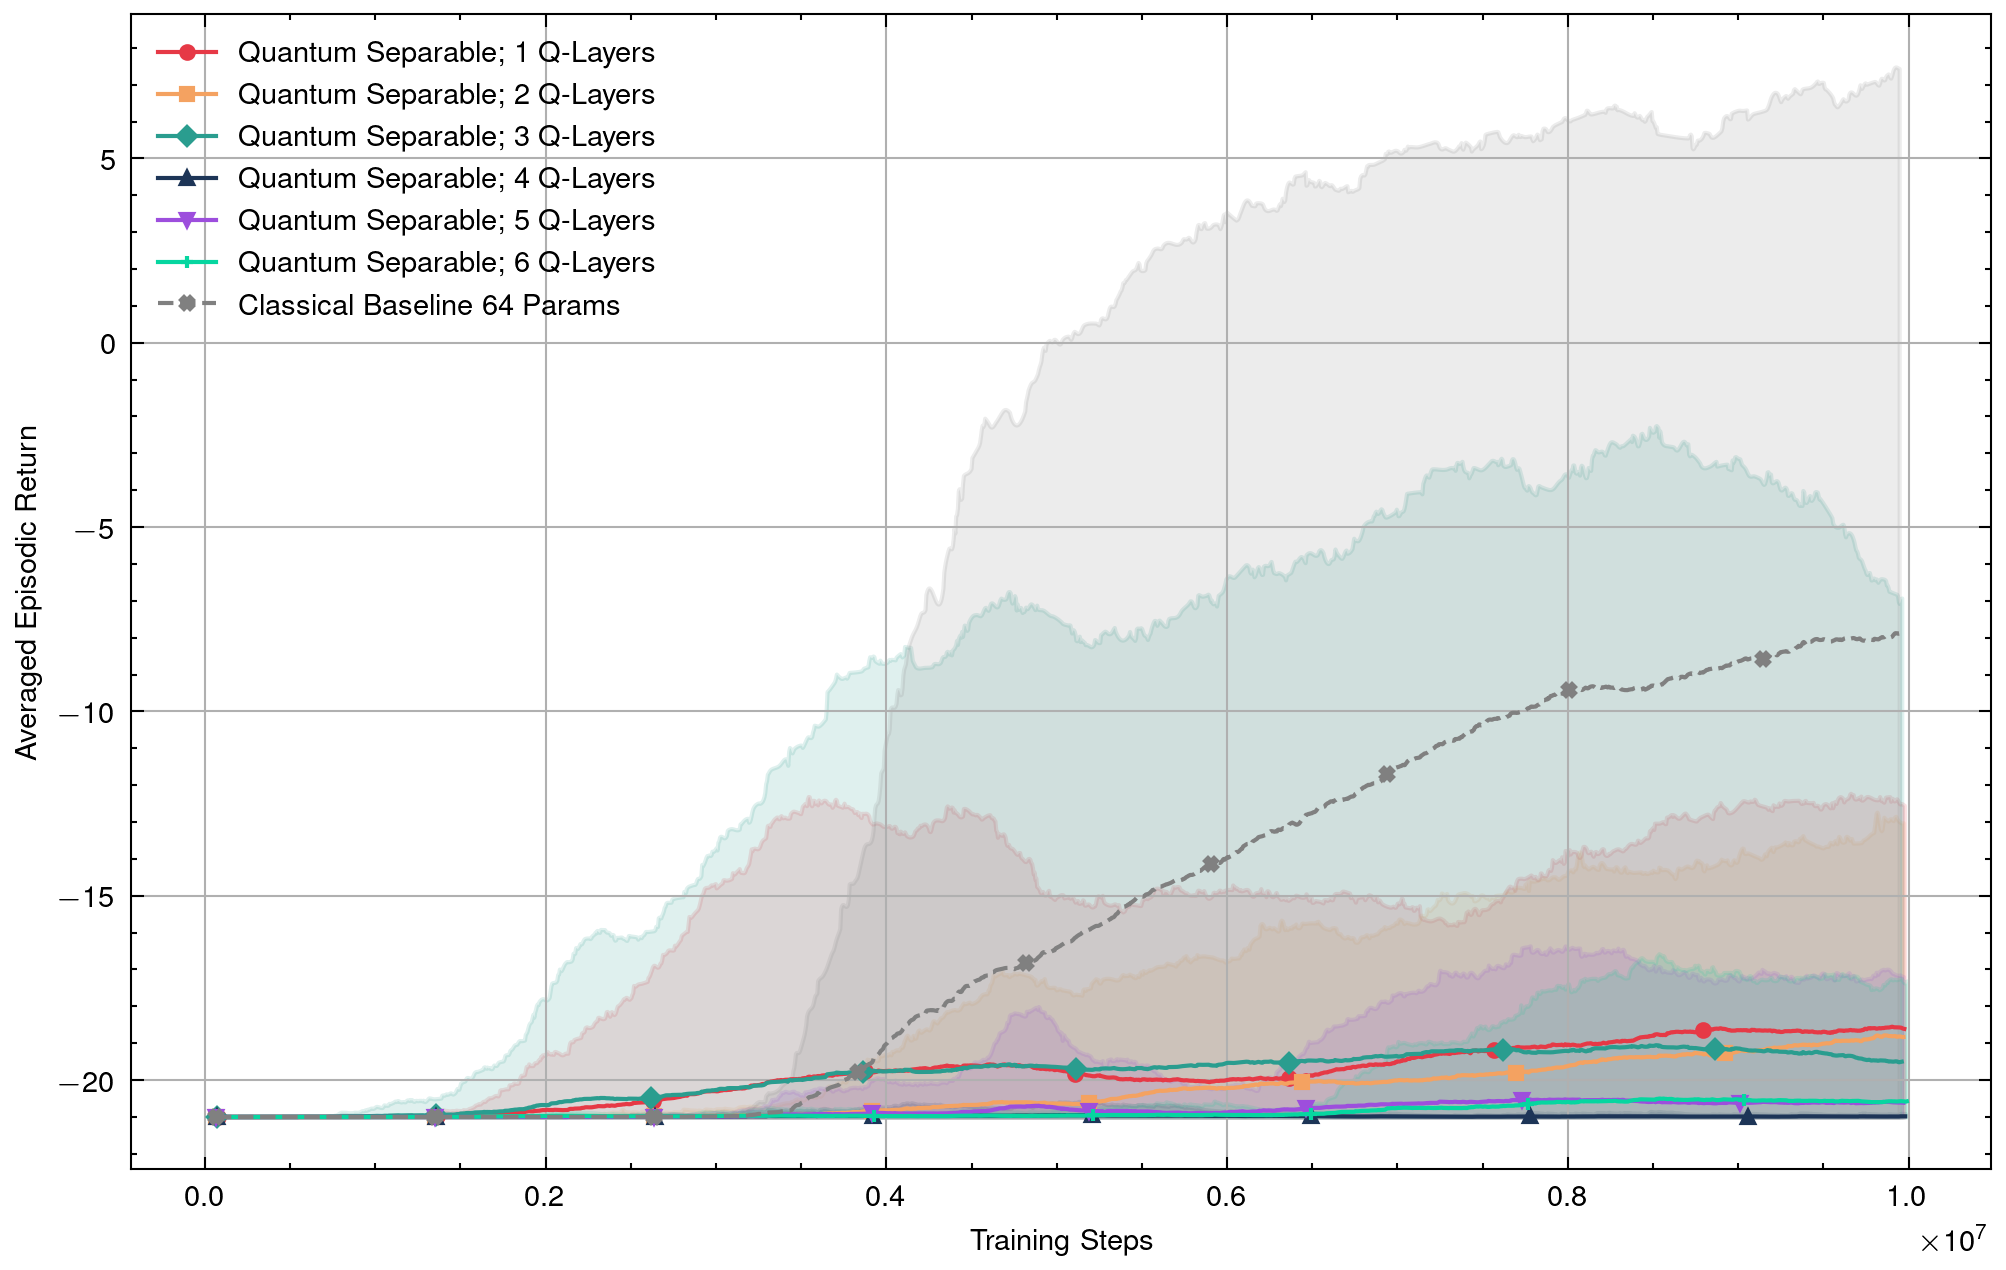
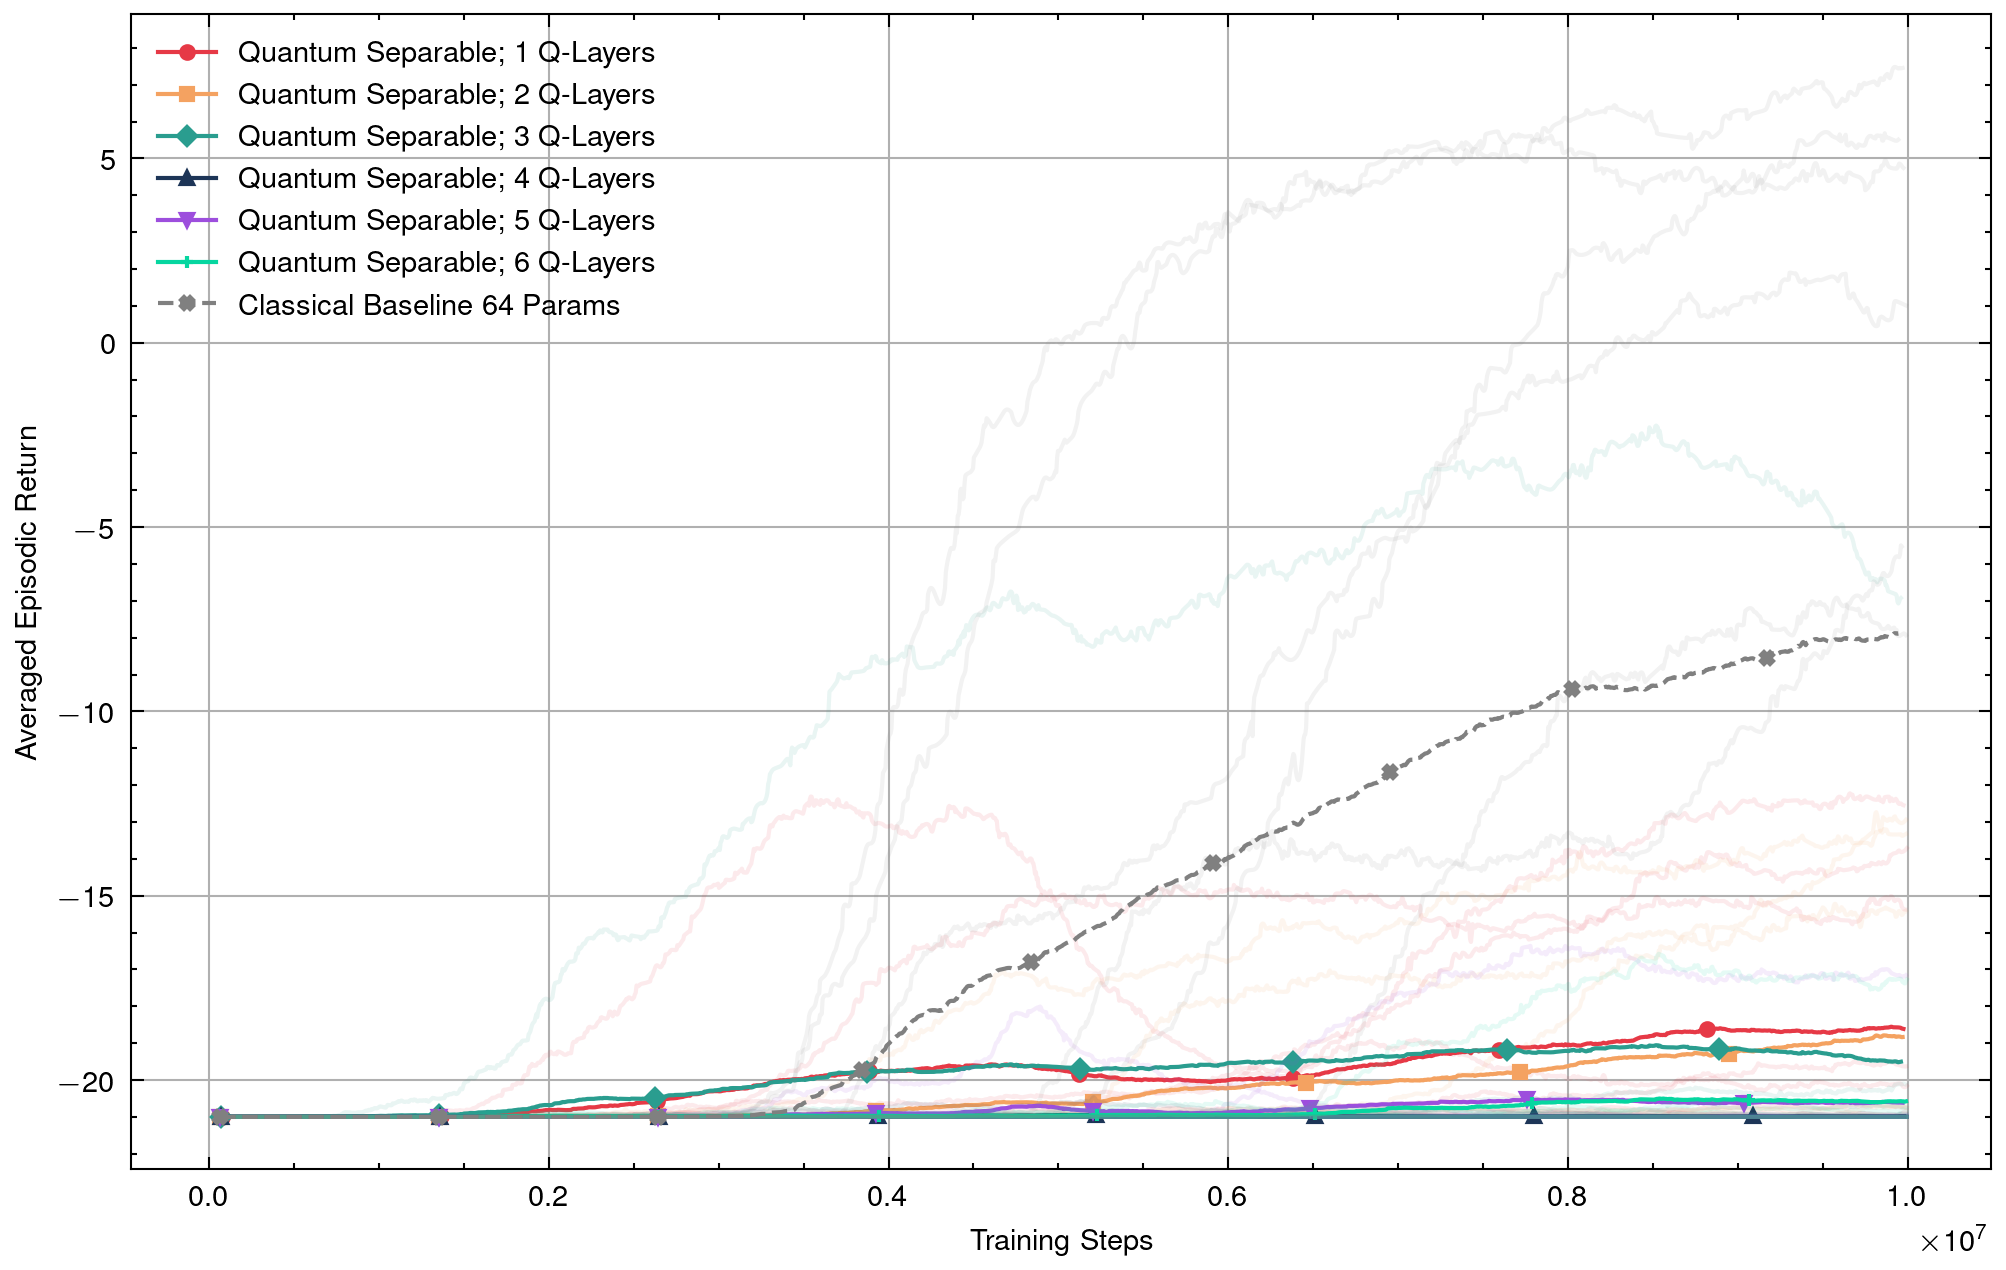
Refactor plot generation for improved visualization by replacing fill between min and max with individual run plots

diff --git a/generate_plots.py b/generate_plots.py
@@ -146,7 +146,7 @@ if __name__ == "__main__":
     # Classical baseline: Black-dashed
     CLASSICAL_COLOR = 'gray'
     SIX_DIFFERNT_COLORS = sns.color_palette(["#E63946", "#F4A261", "#2A9D8F", "#1D3557", "#9D4EDD", "#06D6A0"])
-    SHADE_ALPHA = 0.15
+    SHADE_ALPHA = 0.1  # transparency for shading or individual runs
     # line markers
     # layer markers
     LAYER_MARKERS = ['o', 's', 'D', '^', 'v', '+']
@@ -169,15 +169,23 @@ if __name__ == "__main__":
         run_dfs = [select_step_value(load_csv_as_df(f), '0-Episodic-Stats/episodic_return') for f in files]
         df_mean = mean_across_runs(run_dfs, span=EMA_SPAN)
         plt.plot(df_mean['step'], df_mean['value'], label=f'Quantum Separable; {n_layers} Q-Layers', color=SIX_DIFFERNT_COLORS[idx], marker = LAYER_MARKERS[idx], markevery=0.1)
-        df_minmax = minmax_across_runs(run_dfs, span=EMA_SPAN)
-        plt.fill_between(df_minmax['step'], df_minmax['min'], df_minmax['max'], alpha=SHADE_ALPHA, color=SIX_DIFFERNT_COLORS[idx])
+        # df_minmax = minmax_across_runs(run_dfs, span=EMA_SPAN)
+        # plt.fill_between(df_minmax['step'], df_minmax['min'], df_minmax['max'], alpha=SHADE_ALPHA, color=SIX_DIFFERNT_COLORS[idx])
+        # instead of fill between min and max, plot all runs with low alpha and same color, for better visualization
+        for run_df in run_dfs:
+            df_smoothed = smooth_and_resample(run_df, span=EMA_SPAN)
+            plt.plot(df_smoothed['step'], df_smoothed['value'], color=SIX_DIFFERNT_COLORS[idx], alpha=SHADE_ALPHA)
     # Classical baseline with 64 parameters
     files = res_groups['classical_64']
     run_dfs = [select_step_value(load_csv_as_df(f), '0-Episodic-Stats/episodic_return') for f in files]
     df_mean = mean_across_runs(run_dfs, span=EMA_SPAN)
-    df_minmax = minmax_across_runs(run_dfs, span=EMA_SPAN)
-    plt.fill_between(df_minmax['step'], df_minmax['min'], df_minmax['max'], alpha=SHADE_ALPHA, color=CLASSICAL_COLOR)
+    # df_minmax = minmax_across_runs(run_dfs, span=EMA_SPAN)
+    # plt.fill_between(df_minmax['step'], df_minmax['min'], df_minmax['max'], alpha=SHADE_ALPHA, color=CLASSICAL_COLOR)
     plt.plot(df_mean['step'], df_mean['value'], label='Classical Baseline 64 Params', linestyle='--', color=CLASSICAL_COLOR, marker=MODEL_MARKERS['classical_64'], markevery=0.1)
+    # instead of fill between min and max, plot all runs with low alpha and same color, for better visualization
+    for run_df in run_dfs:
+        df_smoothed = smooth_and_resample(run_df, span=EMA_SPAN)
+        plt.plot(df_smoothed['step'], df_smoothed['value'], color=CLASSICAL_COLOR, alpha=SHADE_ALPHA)
     plt.xlabel('Training Steps')
     plt.ylabel('Averaged Episodic Return')
     # plt.title('Episodic Return: Quantum Separable vs Classical Baseline (64 Params)')
@@ -195,15 +203,23 @@ if __name__ == "__main__":
         run_dfs = [select_step_value(load_csv_as_df(f), '0-Episodic-Stats/episodic_return') for f in files]
         df_mean = mean_across_runs(run_dfs, span=EMA_SPAN)
         plt.plot(df_mean['step'], df_mean['value'], label=f'Quantum Entangled; {n_layers} Q-Layers', color=SIX_DIFFERNT_COLORS[idx], marker = LAYER_MARKERS[idx], markevery=0.1)
-        df_minmax = minmax_across_runs(run_dfs, span=EMA_SPAN)
-        plt.fill_between(df_minmax['step'], df_minmax['min'], df_minmax['max'], alpha=SHADE_ALPHA, color=SIX_DIFFERNT_COLORS[idx])
+        # df_minmax = minmax_across_runs(run_dfs, span=EMA_SPAN)
+        # plt.fill_between(df_minmax['step'], df_minmax['min'], df_minmax['max'], alpha=SHADE_ALPHA, color=SIX_DIFFERNT_COLORS[idx])
+        # instead of fill between min and max, plot all runs with low alpha and same color, for better visualization
+        for run_df in run_dfs:
+            df_smoothed = smooth_and_resample(run_df, span=EMA_SPAN)
+            plt.plot(df_smoothed['step'], df_smoothed['value'], color=SIX_DIFFERNT_COLORS[idx], alpha=SHADE_ALPHA)
     # Classical baseline with 64 parameters
     files = res_groups['classical_64']
     run_dfs = [select_step_value(load_csv_as_df(f), '0-Episodic-Stats/episodic_return') for f in files]
     df_mean = mean_across_runs(run_dfs, span=EMA_SPAN)
-    df_minmax = minmax_across_runs(run_dfs, span=EMA_SPAN)
-    plt.fill_between(df_minmax['step'], df_minmax['min'], df_minmax['max'], alpha=SHADE_ALPHA, color=CLASSICAL_COLOR)
+    # df_minmax = minmax_across_runs(run_dfs, span=EMA_SPAN)
+    # plt.fill_between(df_minmax['step'], df_minmax['min'], df_minmax['max'], alpha=SHADE_ALPHA, color=CLASSICAL_COLOR)
     plt.plot(df_mean['step'], df_mean['value'], label='Classical Baseline 64 Params', linestyle='--', color=CLASSICAL_COLOR, marker=MODEL_MARKERS['classical_64'], markevery=0.1)
+    # instead of fill between min and max, plot all runs with low alpha and same color, for better visualization
+    for run_df in run_dfs:
+        df_smoothed = smooth_and_resample(run_df, span=EMA_SPAN)
+        plt.plot(df_smoothed['step'], df_smoothed['value'], color=CLASSICAL_COLOR, alpha=SHADE_ALPHA)
     plt.xlabel('Training Steps')
     plt.ylabel('Averaged Episodic Return')
     # plt.title('Episodic Return: Quantum Entangled vs Classical Baseline (64 Params)')
@@ -221,15 +237,23 @@ if __name__ == "__main__":
         run_dfs = [select_step_value(load_csv_as_df(f), '0-Episodic-Stats/episodic_return') for f in files]
         df_mean = mean_across_runs(run_dfs, span=EMA_SPAN)
         plt.plot(df_mean['step'], df_mean['value'], label=f'Quantum Entangled Trainable RZZ; {n_layers} Q-Layers', color=SIX_DIFFERNT_COLORS[idx], marker = LAYER_MARKERS[idx], markevery=0.1)
-        df_minmax = minmax_across_runs(run_dfs, span=EMA_SPAN)
-        plt.fill_between(df_minmax['step'], df_minmax['min'], df_minmax['max'], alpha=SHADE_ALPHA, color=SIX_DIFFERNT_COLORS[idx])
+        # df_minmax = minmax_across_runs(run_dfs, span=EMA_SPAN)
+        # plt.fill_between(df_minmax['step'], df_minmax['min'], df_minmax['max'], alpha=SHADE_ALPHA, color=SIX_DIFFERNT_COLORS[idx])
+        # instead of fill between min and max, plot all runs with low alpha and same color, but without labels or markers, for better visualization
+        for run_df in run_dfs:
+            df_smoothed = smooth_and_resample(run_df, span=EMA_SPAN)
+            plt.plot(df_smoothed['step'], df_smoothed['value'], color=SIX_DIFFERNT_COLORS[idx], alpha=0.05)
     # Classical baseline with 64 parameters
     files = res_groups['classical_64']
     run_dfs = [select_step_value(load_csv_as_df(f), '0-Episodic-Stats/episodic_return') for f in files]
     df_mean = mean_across_runs(run_dfs, span=EMA_SPAN)
     plt.plot(df_mean['step'], df_mean['value'], label='Classical Baseline 64 Params', linestyle='--', color=CLASSICAL_COLOR, marker=MODEL_MARKERS['classical_64'], markevery=0.1)
-    df_minmax = minmax_across_runs(run_dfs, span=EMA_SPAN)
-    plt.fill_between(df_minmax['step'], df_minmax['min'], df_minmax['max'], alpha=SHADE_ALPHA, color=CLASSICAL_COLOR)
+    # df_minmax = minmax_across_runs(run_dfs, span=EMA_SPAN)
+    # plt.fill_between(df_minmax['step'], df_minmax['min'], df_minmax['max'], alpha=SHADE_ALPHA, color=CLASSICAL_COLOR)
+    # instead of fill between min and max, plot all runs with low alpha and same color, but without labels or markers, for better visualization
+    for run_df in run_dfs:
+        df_smoothed = smooth_and_resample(run_df, span=EMA_SPAN)
+        plt.plot(df_smoothed['step'], df_smoothed['value'], color=CLASSICAL_COLOR, alpha=0.05)
     plt.xlabel('Training Steps')
     plt.ylabel('Averaged Episodic Return')
     # plt.title('Episodic Return: Quantum Entangled Trainable RZZ vs Classical Baseline (64 Params)')
@@ -248,24 +272,36 @@ if __name__ == "__main__":
             run_dfs = [select_step_value(load_csv_as_df(f), '0-Episodic-Stats/episodic_return') for f in files]
             df_mean = mean_across_runs(run_dfs, span=EMA_SPAN)
             plt.plot(df_mean['step'], df_mean['value'], label=f'Quantum Separable; {n_layers} Q-Layers', color=SIX_DIFFERNT_COLORS[0], marker=MODEL_MARKERS['quantum_separable'], markevery=0.1)
-            df_minmax = minmax_across_runs(run_dfs, span=EMA_SPAN)
-            plt.fill_between(df_minmax['step'], df_minmax['min'], df_minmax['max'], alpha=SHADE_ALPHA, color=SIX_DIFFERNT_COLORS[0])
+            # df_minmax = minmax_across_runs(run_dfs, span=EMA_SPAN)
+            # plt.fill_between(df_minmax['step'], df_minmax['min'], df_minmax['max'], alpha=SHADE_ALPHA, color=SIX_DIFFERNT_COLORS[0])
+            # instead of fill between min and max, plot all runs with low alpha and same color, for better visualization
+            for run_df in run_dfs:
+                df_smoothed = smooth_and_resample(run_df, span=EMA_SPAN)
+                plt.plot(df_smoothed['step'], df_smoothed['value'], color=SIX_DIFFERNT_COLORS[0], alpha=SHADE_ALPHA)
         # Entangled model
         files = res_groups['quantum_entangled'].get(n_layers, [])
         if files:
             run_dfs = [select_step_value(load_csv_as_df(f), '0-Episodic-Stats/episodic_return') for f in files]
             df_mean = mean_across_runs(run_dfs, span=EMA_SPAN)
             plt.plot(df_mean['step'], df_mean['value'], label=f'Quantum Entangled; {n_layers} Q-Layers', color=SIX_DIFFERNT_COLORS[2], marker=MODEL_MARKERS['quantum_entangled'], markevery=0.1)
-            df_minmax = minmax_across_runs(run_dfs, span=EMA_SPAN)
-            plt.fill_between(df_minmax['step'], df_minmax['min'], df_minmax['max'], alpha=SHADE_ALPHA, color=SIX_DIFFERNT_COLORS[2])
+            # df_minmax = minmax_across_runs(run_dfs, span=EMA_SPAN)
+            # plt.fill_between(df_minmax['step'], df_minmax['min'], df_minmax['max'], alpha=SHADE_ALPHA, color=SIX_DIFFERNT_COLORS[2])
+            # instead of fill between min and max, plot all runs with low alpha and same color, for better visualization
+            for run_df in run_dfs:
+                df_smoothed = smooth_and_resample(run_df, span=EMA_SPAN)
+                plt.plot(df_smoothed['step'], df_smoothed['value'], color=SIX_DIFFERNT_COLORS[2], alpha=SHADE_ALPHA)
         # Entangled trainable rzz model
         files = res_groups['quantum_entangled_trainable_rzz'].get(n_layers, [])
         if files:
             run_dfs = [select_step_value(load_csv_as_df(f), '0-Episodic-Stats/episodic_return') for f in files]
             df_mean = mean_across_runs(run_dfs, span=EMA_SPAN)
             plt.plot(df_mean['step'], df_mean['value'], label=f'Quantum Entangled Trainable RZZ; {n_layers} Q-Layers', color=SIX_DIFFERNT_COLORS[4], marker=MODEL_MARKERS['quantum_entangled_trainable_rzz'], markevery=0.1)
-            df_minmax = minmax_across_runs(run_dfs, span=EMA_SPAN)
-            plt.fill_between(df_minmax['step'], df_minmax['min'], df_minmax['max'], alpha=SHADE_ALPHA, color=SIX_DIFFERNT_COLORS[4])
+            # df_minmax = minmax_across_runs(run_dfs, span=EMA_SPAN)
+            # plt.fill_between(df_minmax['step'], df_minmax['min'], df_minmax['max'], alpha=SHADE_ALPHA, color=SIX_DIFFERNT_COLORS[4])
+            # instead of fill between min and max, plot all runs with low alpha and same color, for better visualization
+            for run_df in run_dfs:
+                df_smoothed = smooth_and_resample(run_df, span=EMA_SPAN)
+                plt.plot(df_smoothed['step'], df_smoothed['value'], color=SIX_DIFFERNT_COLORS[4], alpha=SHADE_ALPHA)
         plt.xlabel('Training Steps')
         plt.ylabel('Averaged Episodic Return')
         plt.legend()
